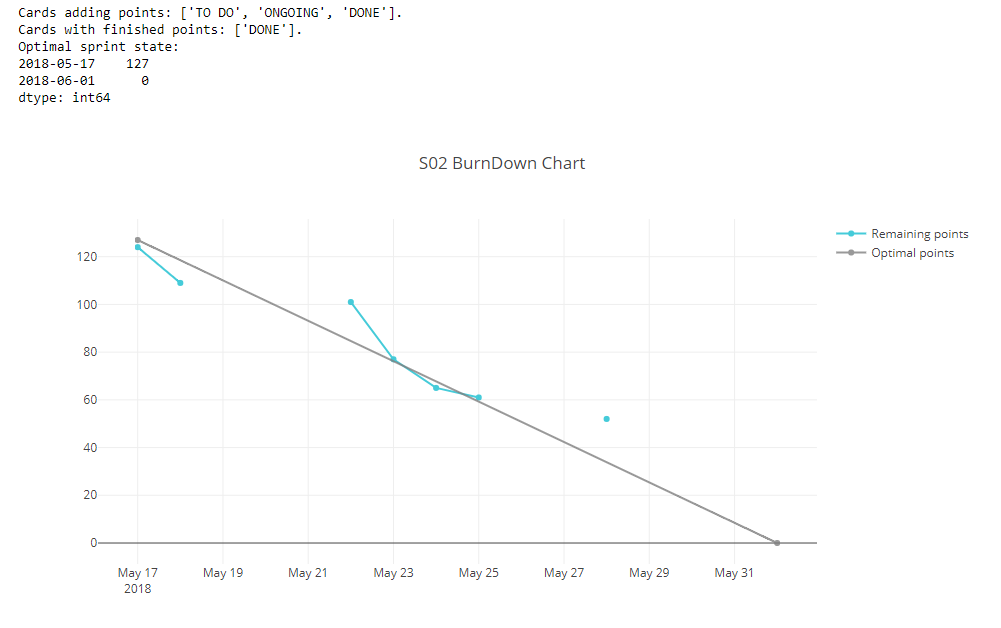
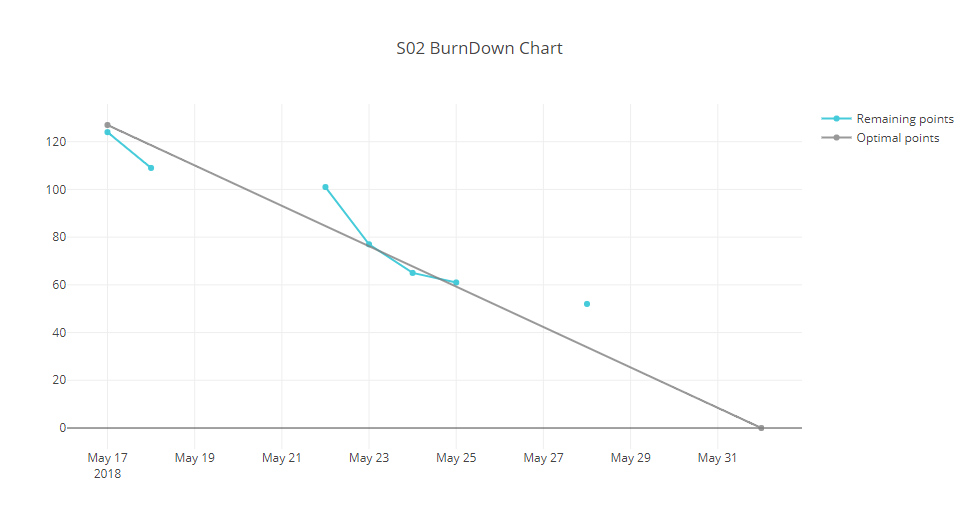
agile II

diff --git a/_posts/Python-Tricks/2018-05-19-agile-with-python-II.md b/_posts/Python-Tricks/2018-05-19-agile-with-python-II.md
@@ -1,0 +1,65 @@
+---
+layout: single
+title: "Agile methodology with Python (Part II)"
+date: 2018-05-28
+categories: python-tricks
+tags: agile python trello story-time API graph plotly
+author_profile: false
+mathjax: true
+---
+
+In last post we introduced py-trello API and showed one way of quickly getting a BurnDown chart on any Trello board we want, specifying in which cards we have positive and finished points. However, in the way we implemented it last time things can be scary...
+
+
+![png]({{ "/assets/images/pythontricks/agileII/burndown_bad.png" | absolute_url }})
+
+And also missleading. 
+
+Problem here is that we are taking into account weekends, which in this graph act like we had several days without obtaining any results. Let's try to change this behaviour and only use workdays to have a vision that better fits reality. Another option could be only using days with card movement, assuming that, as we are working full time in these tasks, someone on the team will at least finish an easy task.
+
+It has taken a while, as even when discarding weekends in the time series objects, those days are still shown in the plot. Finally, I came up with a solution that might not be the most elegant but gives us a better idea of the project's real state.
+
+1. When defining the class index, add *frequence* only business days:
+
+```python
+from pandas.tseries.offsets import BDay
+
+self.index = pd.date_range(start=start_sprint,
+                           end=end_sprint,
+                           freq=BDay())
+```
+
+Which elimininates weekends when creating the Time Series storing the points.
+
+2. Instead of generating the Optimal Time Series with just sprint start and end points, with values of all_points and 0, use numpy **linspace** function to actually inform all points of interest.
+
+```python
+optim_val = np.linspace(self.all_points, 0, len(self.index))
+optimal = pd.Series(optim_val, index=self.index)
+```
+
+3. Now we have our data clean! However, plotly still gives us headaches as when using timestamps on x-axis, not even passed data points have their dates drawn. There is a [discussion](https://github.com/plotly/plotly.js/issues/99) going on about auto-formatting this issue, but i decided to go straight-forward and convert types. New traces have x-axis changed to integer list and look like this:
+
+```python
+real_trace = go.Scatter(x=list(range(len(self.ts.index))), 
+                        y=self.ts,
+                        name='Remaining points',
+                        line = dict(color = '#17BECF'),
+                        opacity = 0.8)
+
+optim_trace = go.Scatter(x=list(range(len(optimal.index))),
+                         y=optimal,
+                         name='Optimal points',
+                         line=dict(color='#7F7F7F'),
+                         opacity = 0.8)
+```
+
+Again, there may be better workarounds, but nevertheless, this one works and we can from this:
+
+![png]({{ "/assets/images/pythontricks/agileII/burndown_bad.png" | absolute_url }})
+
+To this:
+
+![png]({{ "/assets/images/pythontricks/agileII/burndown_good.png" | absolute_url }})
+
+Still, note how third data point is still blank. This is because it was a holiday in Barcelona :) Python has some tools to import festivities and even tune your own calendar, but I'll leave that for another day.

diff --git a/_posts/Python-Tricks/2018-05-19-agile-with-python-I.md b/_posts/Python-Tricks/2018-05-19-agile-with-python-I.md
@@ -1,6 +1,6 @@
 ---
 layout: single
-title: "Agile methodology with Python (I)"
+title: "Agile methodology with Python (Part I)"
 date: 2018-05-19
 categories: python-tricks
 tags: agile python trello story-time API graph plotly
